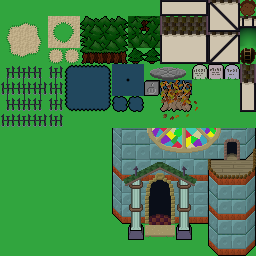
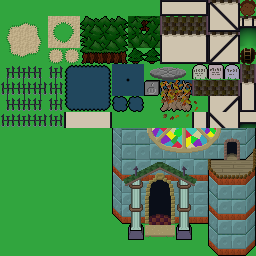
full maps: fleshed out village somewhat

Changed region(s): [[0.75, 0.3125, 1.0, 0.5], [0.25, 0.4375, 0.4375, 0.5]]

diff --git a/src/opt/bigpc/bigpc_platform.c b/src/opt/bigpc/bigpc_platform.c
@@ -231,7 +231,7 @@ int8_t fmn_load_map(
   fmn_map_for_each_command(serial,serialc,fmn_load_map_cb_command,&ctx);
   
   bigpc_load_cellphysics();
-  bigpc_autobloom_plants();
+  if (!fmn_global.indoors) bigpc_autobloom_plants();
   return 1;
 }
 

diff --git a/README.md b/README.md
@@ -31,13 +31,13 @@ And tentatively aiming for full release 29 September 2023, the first full moon o
 - [ ] Furnish Dot's house.
 - [ ] Big tree edges don't line up.
 - [ ] image castleext: Water-into-trees, 4 tiles needed.
-- [ ] Decide where each treasure goes. Filling in with Cheese.
+- [x] Decide where each treasure goes. Filling in with Cheese.
 - [ ] desert: tiles for forest boundary
 - [ ] image steppe: Entirely temporary
 - [ ] steppe/beach boundary in blowback border
 - [ ] Sea should be the same color everywhere, pick one.
 - [ ] Church: join path at welcome mat.
-- [ ] village: wattle-and-daub houses need an extensible roof
+- [x] village: wattle-and-daub houses need an extensible roof
 
 #### Major areas
 
